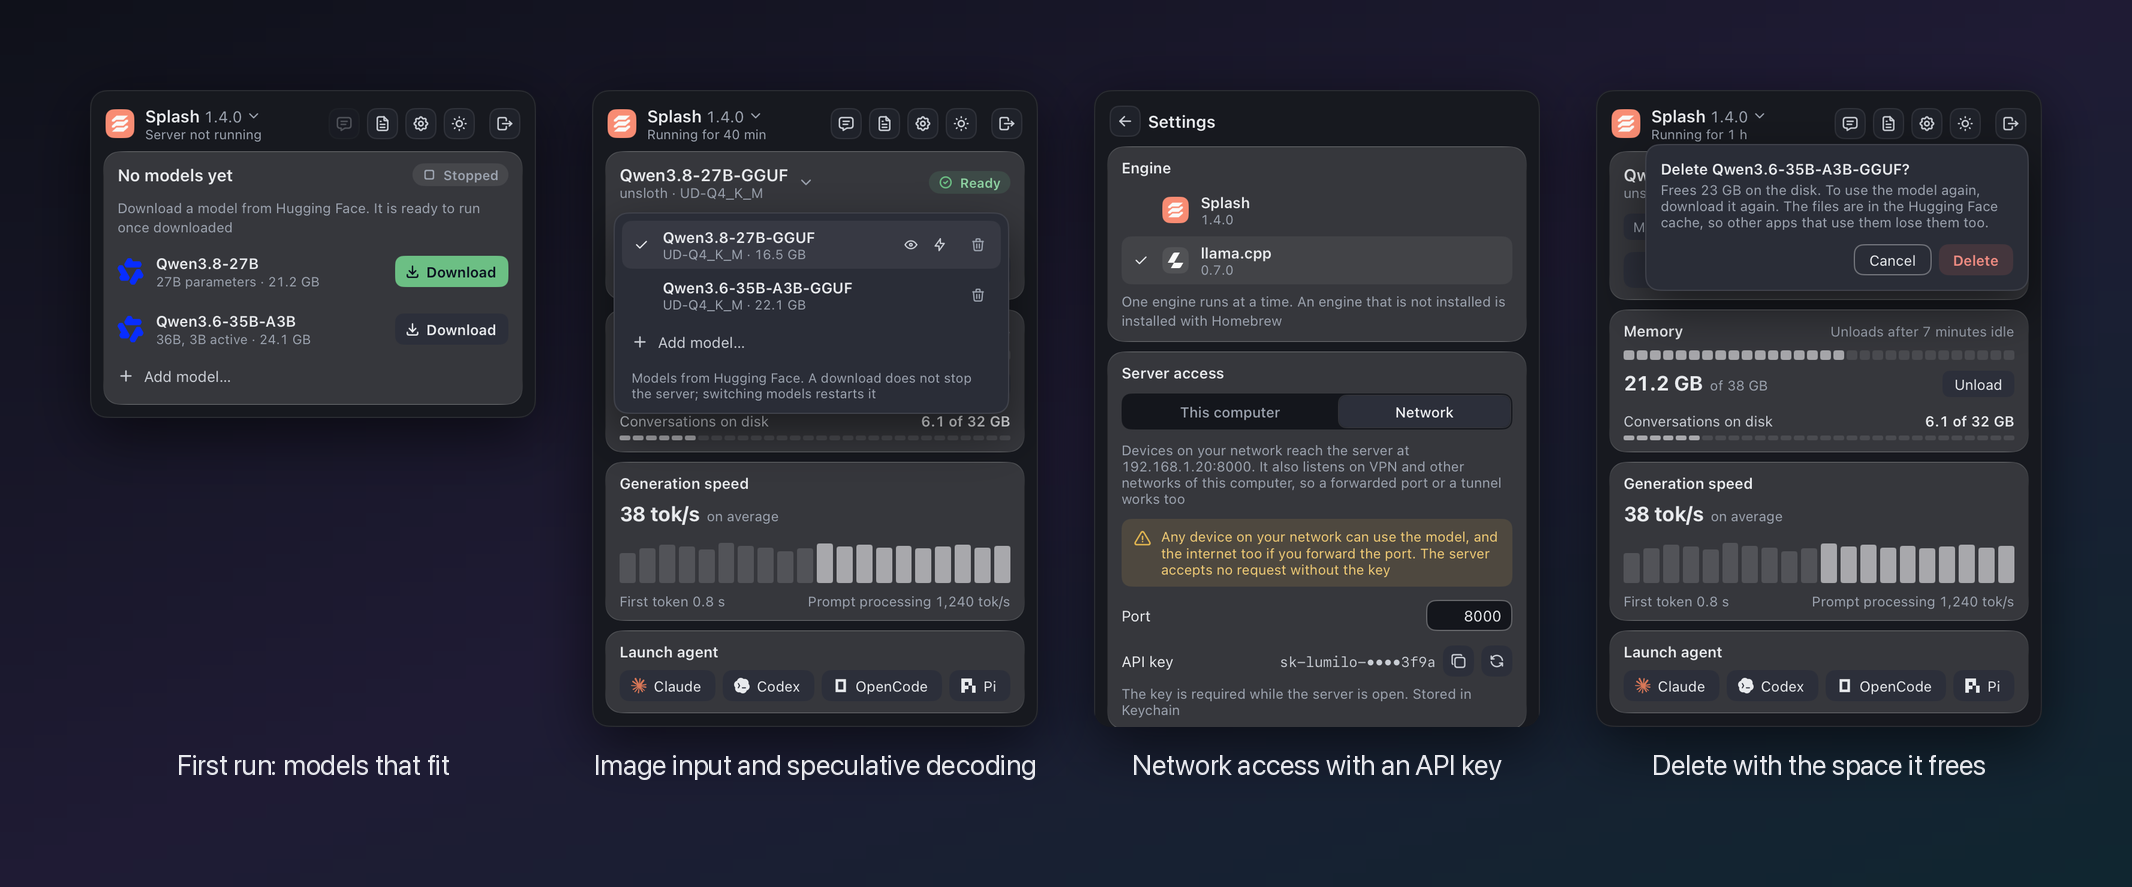
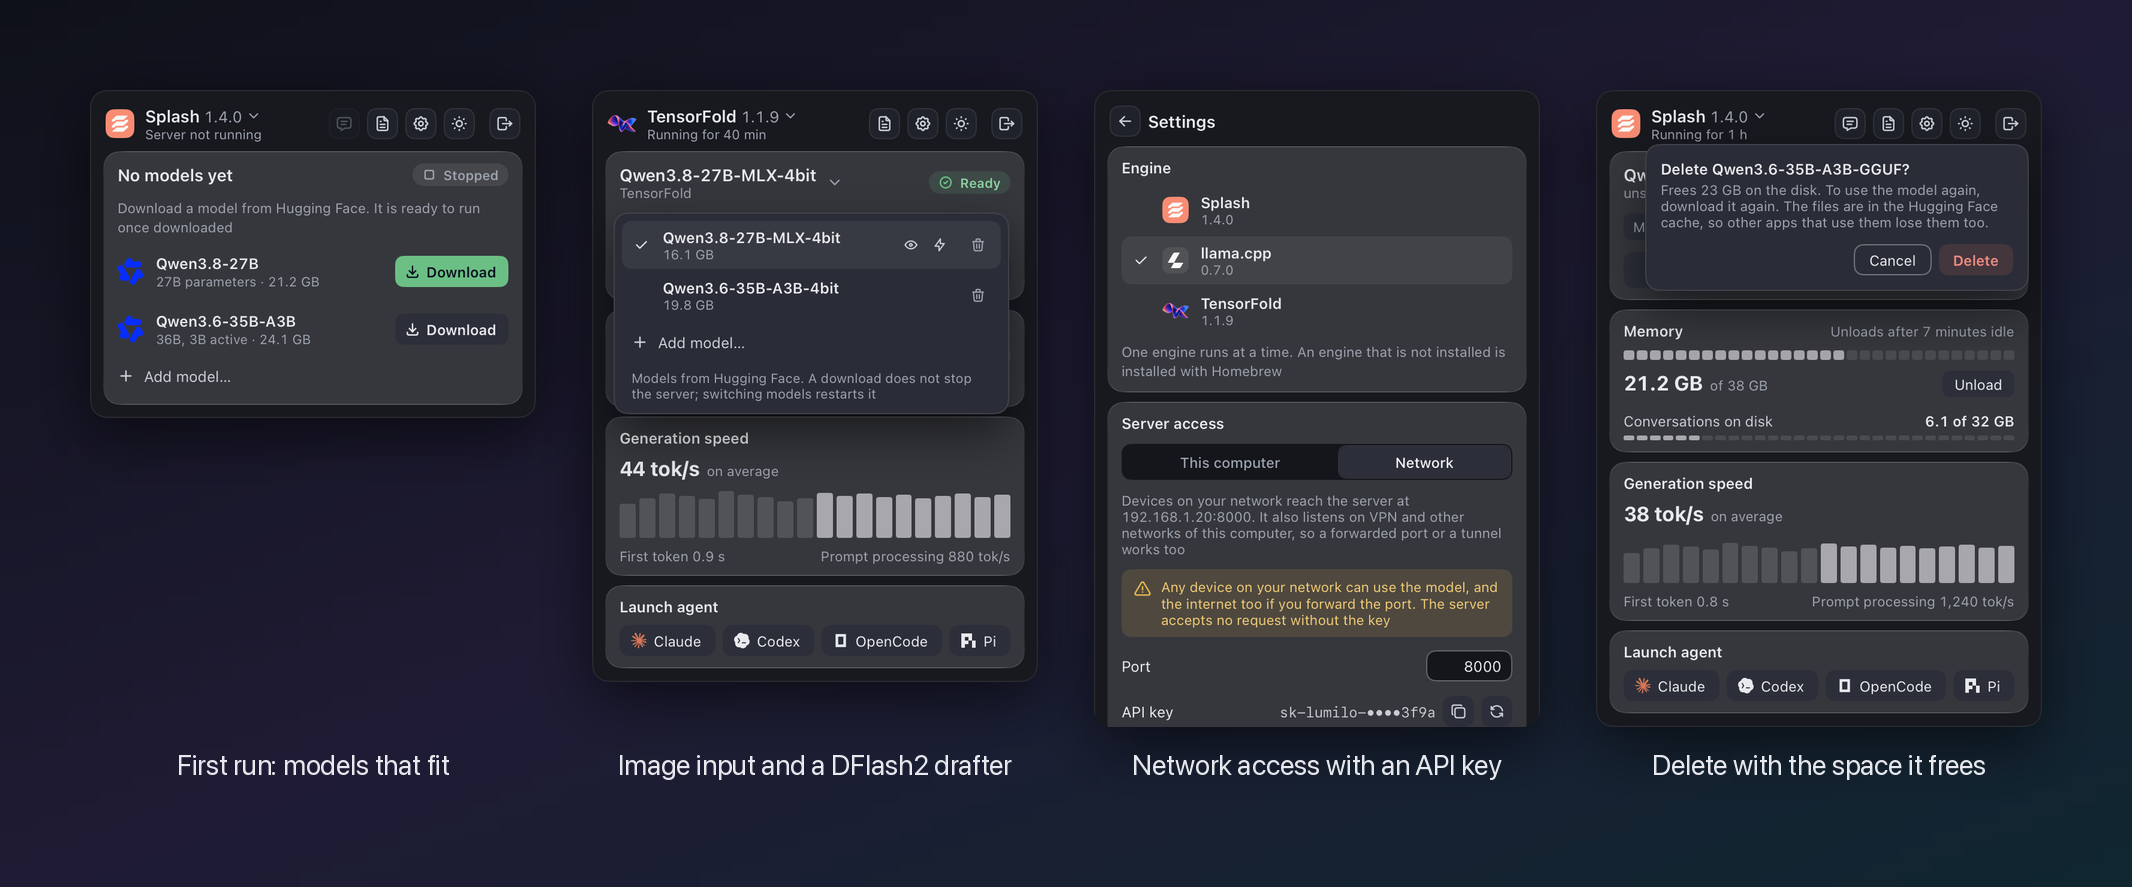
README: TensorFold in the screenshots (#14)
The hero shows an engine each: llama.cpp downloading a model, TensorFold
generating with Qwen3.8-27B and its DFlash2 drafter at 128K, its speed
live in the menu-bar icon, and Splash looking up a model's variants. The
features show TensorFold's model list, the engine list has three engines,
and the languages are split between Splash, llama.cpp and TensorFold.

diff --git a/internal/panel/readme_test.go b/internal/panel/readme_test.go
@@ -9,6 +9,7 @@ import (
 	"github.com/kotuke/lumilo/internal/core"
 	"github.com/kotuke/lumilo/internal/engine"
 	"github.com/kotuke/lumilo/internal/engines/llamacpp"
+	"github.com/kotuke/lumilo/internal/engines/tensorfold"
 	"github.com/kotuke/lumilo/internal/format"
 	"github.com/kotuke/lumilo/internal/hf"
 	"github.com/kotuke/lumilo/locales"
@@ -30,6 +31,14 @@ var (
 			SizeBytes: 1_266_000_000, Always: true}}}}
 	qwen36Splash = engine.Model{ID: "unsloth/Qwen3.6-35B-A3B-GGUF:UD-Q4_K_M", Name: "Qwen3.6-35B-A3B-GGUF",
 		Owner: "unsloth", Variant: "UD-Q4_K_M", SizeBytes: 22_134_528_992, ContextLength: 262144}
+	// Under TensorFold: MLX checkpoints, Qwen3.8-27B with its DFlash2 drafter
+	// (sizes from Hugging Face, 2026-10-29).
+	qwen38TF = engine.Model{ID: "TensorFold/Qwen3.8-27B-MLX-4bit", Name: "Qwen3.8-27B-MLX-4bit", Owner: "TensorFold",
+		SizeBytes: 16_054_541_349, ContextLength: 262144, KVElements: 32768, Features: engine.Features{Vision: true,
+			Drafts: []engine.Draft{{Kind: engine.DraftDFlash, Name: "z-lab/Qwen3.8-27B-DFlash2", ID: "z-lab/Qwen3.8-27B-DFlash2",
+				SizeBytes: 1_731_967_053, Default: true}}}}
+	qwen36TF = engine.Model{ID: "mlx-community/Qwen3.6-35B-A3B-4bit", Name: "Qwen3.6-35B-A3B-4bit",
+		Owner: "mlx-community", SizeBytes: 19_772_000_000, ContextLength: 262144}
 	// qwen36Download is Qwen3.6-35B-A3B as typed, before its files are on disk.
 	qwen36Download = engine.Model{ID: "unsloth/Qwen3.6-35B-A3B-GGUF:UD-Q4_K_M", Owner: "unsloth",
 		Name: "Qwen3.6-35B-A3B-GGUF", Variant: "UD-Q4_K_M"}
@@ -42,6 +51,36 @@ var qwen36Variants = []hf.Variant{
 	{Tag: "MXFP4_MOE", Bytes: 21_706_144_736, Parts: 1},
 	{Tag: "UD-Q6_K", Bytes: 29_308_320_736, Parts: 1},
 	{Tag: "Q8_0", Bytes: 36_903_140_320, Parts: 1},
+}
+
+// readmeEngines are the three engines, installed.
+func readmeEngines() []core.EngineInfo {
+	e := tensorfold.New()
+	info := e.Info()
+	return append(engineList(), core.EngineInfo{ID: info.ID, Name: info.Name, Logo: info.Logo,
+		Installed: true, Version: "1.1.9", Install: e.Installer().Describe()})
+}
+
+// readmeTensorFold is TensorFold serving Qwen3.8-27B with its DFlash2
+// drafter, at the 128K that fits on 48 GB, enough for Claude Code: the
+// drafter makes it faster than llama.cpp's GGUF.
+func readmeTensorFold(ph core.Phase) core.View {
+	v := withPhase(ph)
+	core.Describe(&v, tensorfold.New())
+	v.Version, v.ChatURL = "1.1.9", ""
+	v.Engines = readmeEngines()
+	v.Model, v.Models = qwen38TF, []engine.Model{qwen38TF, qwen36TF}
+	v.Snapshot.Model, v.Snapshot.ContextTokens = qwen38TF.ID, 131072
+	v.Snapshot.MemoryUsed, v.Snapshot.DiskUsed, v.Snapshot.DiskLimit = 22_400_000_000, 0, 0
+	v.Speed.History = nil
+	for _, s := range sampleHistory {
+		v.Speed.History = append(v.Speed.History, s*1.15)
+	}
+	v.Speed.Average, v.Speed.FirstToken, v.Speed.Read = 44, 900*time.Millisecond, 880
+	if ph == core.PhaseGenerating {
+		v.Speed.Current = 47
+	}
+	return v
 }
 
 // readmeLlama is llama.cpp serving Qwen3.8-27B: a dense 27B model runs
@@ -57,6 +96,7 @@ func readmeLlama(ph core.Phase) core.View {
 		v.Speed.History = append(v.Speed.History, s*0.68)
 	}
 	v.Speed.Average, v.Speed.FirstToken, v.Speed.Read = 26, 1400*time.Millisecond, 610
+	v.Engines = readmeEngines()
 	if ph == core.PhaseGenerating {
 		// llama-server counts a request's tokens when it ends: no live speed.
 		v.Snapshot.MemoryUsed, v.Snapshot.Active = 20_600_000_000, 1
@@ -69,6 +109,7 @@ func readmeSplash(ph core.Phase) core.View {
 	v := withPhase(ph)
 	v.Model, v.Models = qwen38Splash, []engine.Model{qwen38Splash, qwen36Splash}
 	v.Snapshot.Model = qwen38Splash.ID
+	v.Engines = readmeEngines()
 	if ph == core.PhaseGenerating || ph == core.PhaseReady {
 		v.Snapshot.MemoryUsed = 21_200_000_000
 	}
@@ -98,10 +139,20 @@ func readmeBoards() []board {
 		}, check: func(b *bench) {
 			b.want("llama.cpp 0.7.0", "Qwen3.6-35B-A3B", "9 of 22.1 GB · 60 MB/s · "+en.DlLeft("4 min"))
 		}},
-		{name: "readme-llama-generating", build: func(b *bench) {
-			b.show(readmeLlama(core.PhaseGenerating), 3*time.Hour+5*time.Minute)
+		// TensorFold generates with Qwen3.8-27B and its DFlash2 drafter.
+		{name: "readme-tensorfold-generating", build: func(b *bench) {
+			b.rec.eng = tensorfold.New()
+			b.show(readmeTensorFold(core.PhaseGenerating), 2*time.Hour+40*time.Minute)
 		}, check: func(b *bench) {
-			b.want("llama.cpp 0.7.0", "Qwen3.8-27B-GGUF", "unsloth · UD-Q4_K_M", "Generating", "20.6 GB")
+			b.want("TensorFold 1.1.9", "Qwen3.8-27B-MLX-4bit", "Generating", "22.4 GB", "128K")
+		}},
+		// TensorFold's model list: image input and the DFlash2 drafter.
+		{name: "readme-tensorfold-models", build: func(b *bench) {
+			b.rec.eng = tensorfold.New()
+			b.show(readmeTensorFold(core.PhaseReady), 40*time.Minute)
+			b.click("Qwen3.8-27B-MLX-4bit")
+		}, check: func(b *bench) {
+			b.want("TensorFold 1.1.9", "Qwen3.6-35B-A3B-4bit", "Speculative decoding: on")
 		}},
 		// Splash with Qwen3.8-27B looks up Qwen3.6-35B-A3B's files.
 		{name: "readme-splash-variants", build: func(b *bench) {
@@ -122,15 +173,7 @@ func readmeBoards() []board {
 			b.show(readmeLlama(core.PhaseReady), time.Hour)
 			b.openEngines("llama.cpp 0.7.0")
 		}, check: func(b *bench) {
-			b.want("Splash", "llama.cpp", "1.4.0", "0.7.0")
-		}},
-		// Splash's model list: image input and the DFlash2 draft it always runs.
-		{name: "readme-splash-models", build: func(b *bench) {
-			b.show(readmeSplash(core.PhaseReady), 40*time.Minute)
-			b.click("Qwen3.8-27B-GGUF")
-		}, check: func(b *bench) {
-			b.want("Splash 1.4.0", "UD-Q4_K_M · 16.5 GB", "Qwen3.6-35B-A3B-GGUF", "Image input: on",
-				"Speculative decoding: on")
+			b.want("Splash", "llama.cpp", "TensorFold", "1.4.0", "0.7.0", "1.1.9")
 		}},
 		// llama.cpp open to the network, with its key and context.
 		{name: "readme-llama-network", build: func(b *bench) {
@@ -159,24 +202,26 @@ func readmeBoards() []board {
 			b.want(en.RmTitle(qwen36Splash.Name), en.RmFrees("23 GB"))
 		}},
 	}
-	// The languages, Splash in the first row of the README's collage and
-	// llama.cpp in the second.
+	// The languages, by engine: Splash, llama.cpp, then TensorFold.
 	for i, lang := range []string{"en", "ru", "de", "fr", "es", "ja", "zh-Hans", "ar"} {
-		view := readmeSplash
-		if i >= 4 {
-			view = readmeLlama
+		view, eng := readmeSplash, engine.Engine(nil)
+		switch {
+		case i >= 6:
+			view, eng = readmeTensorFold, tensorfold.New()
+		case i >= 3:
+			view, eng = readmeLlama, llamacpp.New()
 		}
 		out = append(out, board{name: "readme-lang-" + lang, lang: lang,
 			build: func(b *bench) {
-				if i >= 4 {
-					b.rec.eng = llamacpp.New()
+				if eng != nil {
+					b.rec.eng = eng
 				}
 				b.show(view(core.PhaseGenerating), 2*time.Hour+14*time.Minute)
 			},
 			check: func(b *bench) {
 				b.want(b.m.PillGenerating(), b.m.SpeedTitle(), b.m.Memory(), b.m.ActStop(),
 					b.m.SubGenerating(format.ShortDuration(lang, 2*time.Hour+14*time.Minute)))
-				if i < 4 && !slices.Contains(b.tt.Texts(), b.m.AgentsTitle()) {
+				if i < 3 && !slices.Contains(b.tt.Texts(), b.m.AgentsTitle()) {
 					b.t.Error("no agents under Splash")
 				}
 			}})

diff --git a/scripts/readme-images.py b/scripts/readme-images.py
@@ -32,11 +32,11 @@ LANGS = [
     ("ar", "Arabic, right to left"),
 ]
 
-# Both engines take turns: the README's own boards (readme-* in
-# internal/panel/readme_test.go) run Qwen3.8-27B under llama.cpp and Splash.
+# The engines take turns: the README's own boards (readme-* in
+# internal/panel/readme_test.go) run Qwen3.8-27B under each of them.
 FEATURES = [
     ("suggestions", "First run: models that fit"),
-    ("readme-splash-models", "Image input and speculative decoding"),
+    ("readme-tensorfold-models", "Image input and a DFlash2 drafter"),
     ("readme-llama-network", "Network access with an API key"),
     ("readme-splash-remove", "Delete with the space it frees"),
 ]
@@ -44,9 +44,9 @@ FEATURES = [
 # Boards taller than the others, cut to this height (2x pixels).
 CROP = {"readme-llama-network": 1062}
 
-# The hero: llama.cpp with a model downloading and generating, Splash
-# looking up a model's files.
-HERO = ["readme-llama-downloading", "readme-llama-generating", "readme-splash-variants"]
+# The hero, an engine each: llama.cpp with a model downloading, TensorFold
+# generating, Splash looking up a model's files.
+HERO = ["readme-llama-downloading", "readme-tensorfold-generating", "readme-splash-variants"]
 
 # The same panels in the light and the dark theme, side by side.
 THEMED = [("readme-engines", "light", "Light"), ("readme-engines", "dark", "Dark")]
@@ -104,7 +104,7 @@ def menubar(canvas, dir, theme, h, icon_cx, scale):
         x += d.textlength(word, font=f) + 40 * scale
     clock = "Wed 28 Oct  14:32"
     d.text((canvas.width - 36 * scale, y), clock, font=font, fill=ink, anchor="rm")
-    icon = tray(dir, "generating-llamacpp", theme, scale / 2)
+    icon = tray(dir, "generating-tensorfold", theme, scale / 2)
     # The icon is highlighted while its panel is open.
     hl = (icon_cx - icon.width / 2 - 10 * scale, 4 * scale, icon_cx + icon.width / 2 + 10 * scale, h - 4 * scale)
     over = Image.new("RGBA", canvas.size, (0, 0, 0, 0))

diff --git a/internal/trayicon/shot_test.go b/internal/trayicon/shot_test.go
@@ -34,6 +34,11 @@ func TestTrayShot(t *testing.T) {
 		llama := view(ph)
 		llama.Engine, llama.Speed.Current, llama.Snapshot.MemoryUsed = "llama.cpp", 0, 20_600_000_000
 		views[name+"-llamacpp"] = llama
+		// And under TensorFold, which the hero's middle panel runs: its
+		// speed is live.
+		tf := view(ph)
+		tf.Engine, tf.Speed.Current, tf.Snapshot.MemoryUsed = "TensorFold", 47, 22_400_000_000
+		views[name+"-tensorfold"] = tf
 	}
 	for name, v := range views {
 		for theme, dark := range map[string]bool{"dark": true, "light": false} {

diff --git a/README.md b/README.md
@@ -17,7 +17,7 @@ and point coding agents at it, without a terminal.
 
 <picture>
   <source media="(prefers-color-scheme: dark)" srcset="docs/images/hero-dark.png">
-  <img src="docs/images/hero-light.png" alt="Lumilo panels: llama.cpp serving Qwen3.8-27B while Qwen3.6-35B-A3B downloads, llama.cpp generating, Splash looking up a model's variants on Hugging Face">
+  <img src="docs/images/hero-light.png" alt="Lumilo panels, one per engine: llama.cpp serving Qwen3.8-27B while Qwen3.6-35B-A3B downloads, TensorFold generating with Qwen3.8-27B and its DFlash2 drafter, Splash looking up a model's variants on Hugging Face">
 </picture>
 
 </div>
@@ -64,7 +64,7 @@ brew install --cask kotuke/tap/lumilo
 
 <picture>
   <source media="(prefers-color-scheme: dark)" srcset="docs/images/features-dark.png">
-  <img src="docs/images/features-light.png" alt="First-run model suggestions, Splash's model list with image input and speculative decoding, llama.cpp open to the network with an API key, the delete dialog">
+  <img src="docs/images/features-light.png" alt="First-run model suggestions, TensorFold's model list with image input and a DFlash2 drafter, llama.cpp open to the network with an API key, the delete dialog">
 </picture>
 
 ## In the menu bar
@@ -88,7 +88,7 @@ coding agent runs its tools between two of them.
 
 The panel follows the system theme, or the one you switch to in its header.
 
-<img src="docs/images/themes.png" alt="The same llama.cpp panel with the engine list open, in the light and the dark theme">
+<img src="docs/images/themes.png" alt="The same llama.cpp panel with the list of the three engines open, in the light and the dark theme">
 
 ## Languages
 
@@ -97,7 +97,7 @@ Arabic. Lumilo follows the system language, or the one you pick in Settings.
 
 <picture>
   <source media="(prefers-color-scheme: dark)" srcset="docs/images/languages-dark.png">
-  <img src="docs/images/languages-light.png" alt="The Lumilo panel in eight languages: Splash in the first row, llama.cpp in the second">
+  <img src="docs/images/languages-light.png" alt="The Lumilo panel in eight languages, under Splash, llama.cpp and TensorFold">
 </picture>
 
 ## Install
